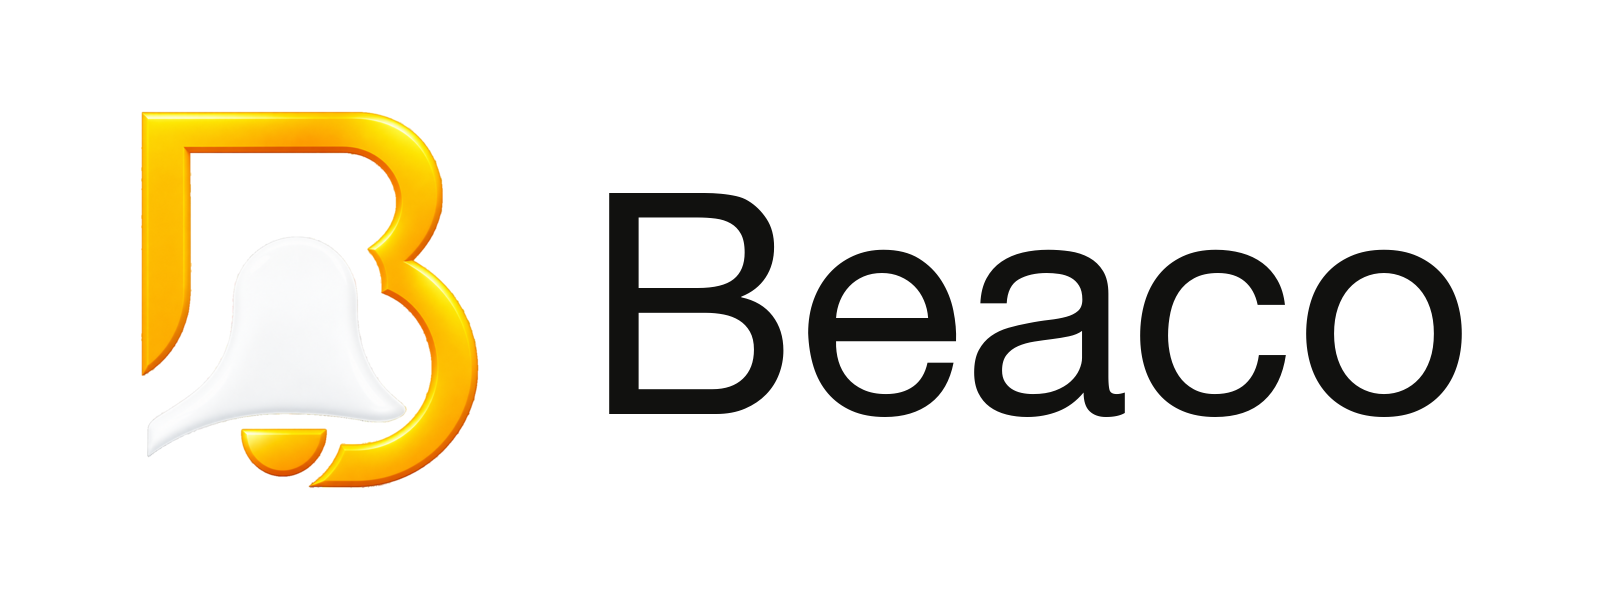
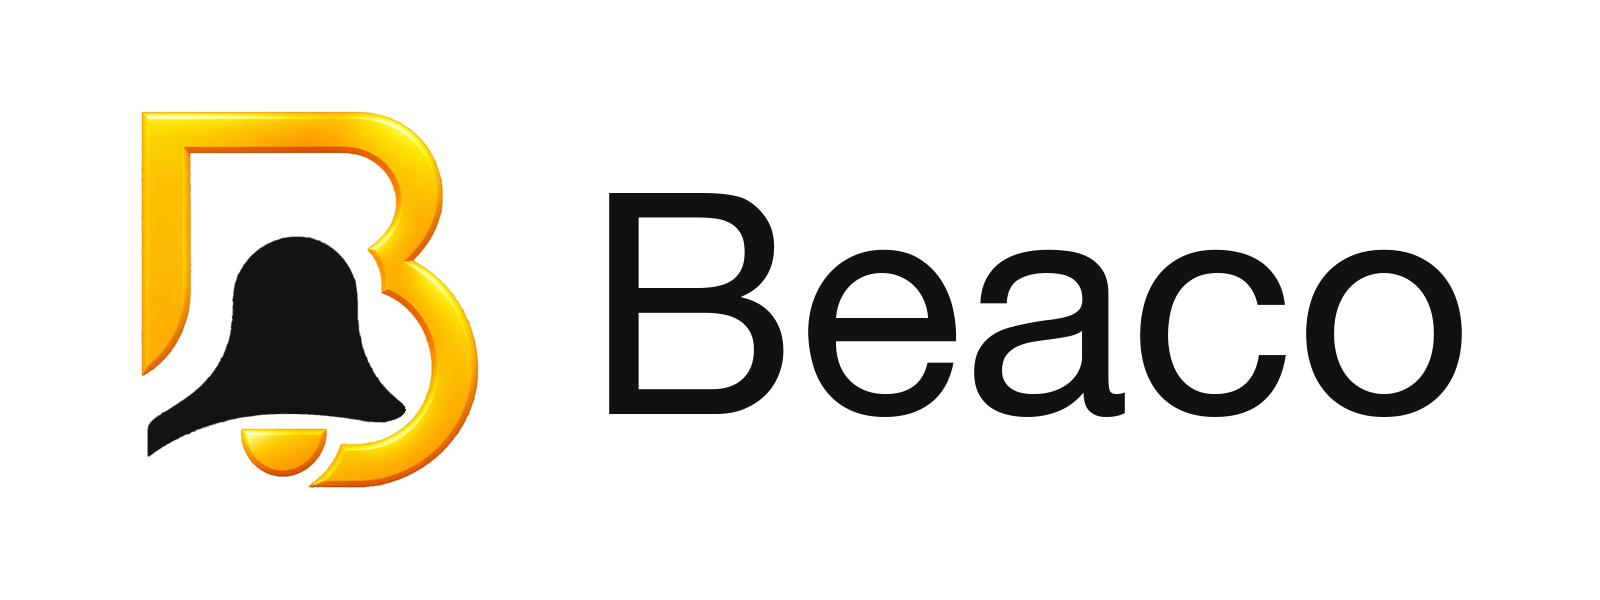
feat(email): add branded template gallery and light assets
- Add responsive light and dark email template review surfaces
- Produce transparent black-bell logo variants for light backgrounds
- Document correct light, dark, favicon, and installable icon usage

Changed region(s): [[0.0938, 0.39, 0.25, 0.75]]

diff --git a/apps/web/src/components/email/beaco-email-preview.tsx b/apps/web/src/components/email/beaco-email-preview.tsx
@@ -1,0 +1,112 @@
+import Image from "next/image";
+import type { EmailTemplate } from "@/lib/email-templates";
+
+export type EmailColorScheme = "light" | "dark";
+
+type BeacoEmailPreviewProps = {
+  template: EmailTemplate;
+  colorScheme: EmailColorScheme;
+};
+
+export function BeacoEmailPreview({ template, colorScheme }: BeacoEmailPreviewProps) {
+  const isInvite = template.id === "organization-invitation";
+  const isWelcome = template.id === "account-ready";
+  const headline = isInvite
+    ? `A seat is waiting at ${template.sample.organization}`
+    : isWelcome
+      ? "Your notification workspace is live"
+      : "Your private route into Beaco";
+  const intro = isInvite
+    ? `${template.sample.inviter} invited you to join ${template.sample.organization} and work from one shared notification record.`
+    : isWelcome
+      ? `Hi ${template.sample.recipientName}, your organization and first project are ready. The control plane is yours.`
+      : `Hi ${template.sample.recipientName}, use this one-time link to securely sign in. No password, no credentials left behind.`;
+  const eyebrow = isInvite ? "Organization invitation" : isWelcome ? "Workspace provisioned" : "Secure account access";
+  const detailLabel = isInvite ? "Organization" : isWelcome ? "First project" : "Valid for";
+  const detailValue = isInvite ? template.sample.organization : isWelcome ? "Default" : template.sample.expiry;
+
+  return (
+    <article
+      data-color-scheme={colorScheme}
+      className="group/email mx-auto w-full max-w-[640px] overflow-hidden rounded-[2px] border border-[#d9d4c8] bg-[#f7f4eb] text-[#211f1a] shadow-[0_30px_90px_rgba(0,0,0,0.28)] transition-colors data-[color-scheme=dark]:border-[#34332e] data-[color-scheme=dark]:bg-[#11110f] data-[color-scheme=dark]:text-[#f2eee4]"
+      aria-label={`${template.name} email preview in ${colorScheme} mode`}
+    >
+      <header className="border-b-2 border-[#e9aa31] bg-[#11110f] px-6 py-6 sm:px-10 sm:py-7">
+        <div className="flex items-center justify-between gap-6">
+          <Image
+            src="/brand/png/beaco-lockup-horizontal-dark.png"
+            width={220}
+            height={72}
+            alt="Beaco"
+            className="h-auto w-[118px] sm:w-[132px]"
+            priority
+          />
+          <span className="text-right font-mono text-[9px] uppercase tracking-[0.16em] text-white/48">Identity message / {template.id.replaceAll("-", " ")}</span>
+        </div>
+      </header>
+
+      <div className="px-6 py-9 sm:px-10 sm:py-12">
+        <div className="flex items-center gap-3">
+          <span className="size-2 bg-[#e9aa31] shadow-[0_0_16px_rgba(233,170,49,.55)]" />
+          <p className="font-mono text-[9px] uppercase tracking-[0.18em] text-[#8a8274] group-data-[color-scheme=dark]/email:text-[#9c968b]">{eyebrow}</p>
+        </div>
+
+        <h1 className="mt-7 max-w-[15ch] text-[34px] font-semibold leading-[1.02] tracking-[-0.052em] sm:text-[44px]">{headline}</h1>
+        <p className="mt-6 max-w-[32rem] text-[14px] leading-7 text-[#5f5a50] group-data-[color-scheme=dark]/email:text-[#b4aea2]">{intro}</p>
+
+        <dl className="mt-9 grid grid-cols-1 border-y border-[#ded9cc] sm:grid-cols-2 group-data-[color-scheme=dark]/email:border-[#37362f]">
+          <div className="py-5 sm:pr-6">
+            <dt className="font-mono text-[9px] uppercase tracking-[0.16em] text-[#8a8274] group-data-[color-scheme=dark]/email:text-[#827d73]">{detailLabel}</dt>
+            <dd className="mt-2 text-[14px] font-semibold">{detailValue}</dd>
+          </div>
+          <div className="border-t border-[#ded9cc] py-5 sm:border-l sm:border-t-0 sm:pl-6 group-data-[color-scheme=dark]/email:border-[#37362f]">
+            <dt className="font-mono text-[9px] uppercase tracking-[0.16em] text-[#8a8274] group-data-[color-scheme=dark]/email:text-[#827d73]">Security</dt>
+            <dd className="mt-2 text-[14px] font-semibold">{isWelcome ? "Account verified" : "Single-use access"}</dd>
+          </div>
+        </dl>
+
+        <a
+          href={template.action.destination}
+          className="mt-9 inline-flex min-h-12 items-center justify-center bg-[#e9aa31] px-6 text-[12px] font-bold tracking-[-0.01em] text-[#1d160b] no-underline"
+        >
+          {template.action.label}<span className="ml-4 font-mono" aria-hidden="true">→</span>
+        </a>
+
+        <p className="mt-7 text-[11px] leading-5 text-[#7c7569] group-data-[color-scheme=dark]/email:text-[#8f897e]">
+          {isInvite
+            ? `This invitation expires in ${template.sample.expiry}.`
+            : isWelcome
+              ? "This confirms that account provisioning completed successfully."
+              : `This link expires in ${template.sample.expiry} and can only be used once.`}
+          {isWelcome ? "" : " If you did not request this, no action is required."}
+        </p>
+
+        {!isWelcome ? (
+          <div className="mt-7 border-l-2 border-[#e9aa31] bg-[#eeeadf] px-4 py-3 group-data-[color-scheme=dark]/email:bg-[#191916]">
+            <p className="font-mono text-[9px] uppercase tracking-[0.13em] text-[#777064] group-data-[color-scheme=dark]/email:text-[#8e887d]">Button not working?</p>
+            <p className="mt-2 break-all font-mono text-[9px] leading-4 text-[#514d45] group-data-[color-scheme=dark]/email:text-[#aba59a]">https://beaco.app{template.action.destination}</p>
+          </div>
+        ) : null}
+      </div>
+
+      <footer className="border-t border-[#ddd7ca] bg-[#ebe7dc] px-6 py-7 group-data-[color-scheme=dark]/email:border-[#34332e] group-data-[color-scheme=dark]/email:bg-[#0b0b0a] sm:px-10">
+        <div className="flex items-start gap-4">
+          <Image
+            src={colorScheme === "light" ? "/brand/png/beaco-mark-on-light.png" : "/brand/png/beaco-mark-128.png"}
+            width={38}
+            height={38}
+            alt=""
+            className="size-9 shrink-0"
+          />
+          <div className="min-w-0 flex-1">
+            <strong className="text-[13px] tracking-[-0.02em]">Beaco</strong>
+            <p className="mt-1 text-[10px] leading-4 text-[#777064] group-data-[color-scheme=dark]/email:text-[#8d877d]">Notification infrastructure with an accountable delivery record.</p>
+          </div>
+        </div>
+        <div className="mt-6 flex flex-wrap items-center gap-x-3 gap-y-1 border-t border-[#d7d1c4] pt-5 font-mono text-[9px] text-[#777064] group-data-[color-scheme=dark]/email:border-[#302f2a] group-data-[color-scheme=dark]/email:text-[#807b72]">
+          <span>Docs</span><span aria-hidden="true">·</span><span>Security</span><span aria-hidden="true">·</span><span>Privacy</span><span className="ml-auto">Sent to {template.sample.email}</span>
+        </div>
+      </footer>
+    </article>
+  );
+}

diff --git a/apps/web/src/components/email/email-template-gallery.tsx b/apps/web/src/components/email/email-template-gallery.tsx
@@ -1,0 +1,55 @@
+"use client";
+
+import { useMemo, useState } from "react";
+import Link from "next/link";
+import { ArrowLeft, Desktop, DeviceMobile, MagnifyingGlass, Moon, Sun } from "@phosphor-icons/react";
+import { emailTemplates } from "@/lib/email-templates";
+import { BeacoEmailPreview, type EmailColorScheme } from "./beaco-email-preview";
+import BrandLogo from "@/components/brand/brand-logo";
+
+export function EmailTemplateGallery() {
+  const [selectedId, setSelectedId] = useState(emailTemplates[0].id);
+  const [query, setQuery] = useState("");
+  const [viewport, setViewport] = useState<"desktop" | "mobile">("desktop");
+  const [colorScheme, setColorScheme] = useState<EmailColorScheme>("dark");
+  const filtered = useMemo(() => emailTemplates.filter((item) => `${item.name} ${item.subject} ${item.category}`.toLowerCase().includes(query.toLowerCase())), [query]);
+  const selected = emailTemplates.find((item) => item.id === selectedId) ?? emailTemplates[0];
+
+  return (
+    <main id="main-content" className="min-h-dvh bg-[#0b0b0a] text-[#eeeae0]">
+      <header className="flex min-h-16 items-center justify-between border-b border-white/10 px-4 sm:px-6">
+        <div className="flex items-center gap-4"><Link href="/" aria-label="Back to Beaco"><ArrowLeft size={18} /></Link><BrandLogo markClassName="size-7" /><span className="hidden border-l border-white/10 pl-4 text-[12px] text-white/50 sm:inline">Email templates</span></div>
+        <span className="font-mono text-[11px] text-white/45">{emailTemplates.length} REVIEW ITEMS</span>
+      </header>
+      <div className="grid min-h-[calc(100dvh-4rem)] min-w-0 grid-cols-1 lg:grid-cols-[18rem_minmax(0,1fr)_19rem]">
+        <aside className="min-w-0 border-b border-white/10 p-4 lg:border-b-0 lg:border-r lg:p-5">
+          <label className="relative block"><MagnifyingGlass size={15} className="absolute left-3 top-1/2 -translate-y-1/2 text-white/35" /><span className="sr-only">Search templates</span><input value={query} onChange={(event) => setQuery(event.target.value)} placeholder="Search templates" className="h-11 w-full rounded-lg border border-white/10 bg-white/[0.035] pl-9 pr-3 text-[13px] outline-none focus:border-[#e9aa31]" /></label>
+          <div className="mt-5 flex gap-2 overflow-x-auto lg:block lg:space-y-1">
+            {filtered.map((template, index) => <button key={template.id} onClick={() => setSelectedId(template.id)} className={`min-w-[13rem] rounded-lg px-3 py-3 text-left transition lg:w-full ${selected.id === template.id ? "bg-white/[0.08] text-white" : "text-white/55 hover:bg-white/[0.04] hover:text-white/80"}`}><span className="font-mono text-[10px] text-[#e9aa31]">0{index + 1}</span><span className="ml-3 text-[12px] font-medium">{template.name}</span><span className="mt-1.5 block pl-7 text-[10px] text-white/35">{template.category}</span></button>)}
+          </div>
+        </aside>
+
+        <section className="min-w-0">
+          <div className="flex flex-wrap items-center justify-between gap-4 border-b border-white/10 px-4 py-4 sm:px-6">
+            <div><p className="text-[12px] font-medium">{selected.name}</p><p className="mt-1 text-[11px] text-white/40">Subject: {selected.subject}</p></div>
+            <div className="flex flex-wrap gap-2">
+              <div className="flex rounded-lg border border-white/10 p-1"><button aria-label="Light email preview" onClick={() => setColorScheme("light")} className={`grid size-9 place-items-center rounded-md ${colorScheme === "light" ? "bg-white/10 text-[#e9aa31]" : "text-white/40"}`}><Sun size={17} /></button><button aria-label="Dark email preview" onClick={() => setColorScheme("dark")} className={`grid size-9 place-items-center rounded-md ${colorScheme === "dark" ? "bg-white/10 text-[#e9aa31]" : "text-white/40"}`}><Moon size={17} /></button></div>
+              <div className="flex rounded-lg border border-white/10 p-1"><button aria-label="Desktop preview" onClick={() => setViewport("desktop")} className={`grid size-9 place-items-center rounded-md ${viewport === "desktop" ? "bg-white/10 text-[#e9aa31]" : "text-white/40"}`}><Desktop size={17} /></button><button aria-label="Mobile preview" onClick={() => setViewport("mobile")} className={`grid size-9 place-items-center rounded-md ${viewport === "mobile" ? "bg-white/10 text-[#e9aa31]" : "text-white/40"}`}><DeviceMobile size={17} /></button></div>
+            </div>
+          </div>
+          <div className="min-h-[calc(100dvh-8.5rem)] overflow-auto bg-[#161614] p-4 sm:p-8">
+            <div className={`mx-auto transition-all ${viewport === "mobile" ? "max-w-[390px]" : "max-w-[760px]"}`}><BeacoEmailPreview template={selected} colorScheme={colorScheme} /></div>
+          </div>
+        </section>
+
+        <aside className="min-w-0 border-t border-white/10 p-5 lg:border-l lg:border-t-0">
+          <p className="font-mono text-[10px] tracking-[0.1em] text-white/35">DELIVERY CONTEXT</p>
+          <dl className="mt-5 space-y-5 text-[12px]"><div><dt className="text-white/35">Audience</dt><dd className="mt-1.5 text-white/75">{selected.audience}</dd></div><div><dt className="text-white/35">Trigger</dt><dd className="mt-1.5 break-words font-mono text-[10px] leading-5 text-white/65">{selected.trigger}</dd></div><div><dt className="text-white/35">Integration</dt><dd className="mt-1.5 text-white/75">{selected.status === "proposed" ? "Proposed · not sent today" : "Integrated with the live sender"}</dd></div><div><dt className="text-white/35">Color handling</dt><dd className="mt-1.5 text-white/75">Light + dark aware · inversion-safe fallback</dd></div><div><dt className="text-white/35">Action destination</dt><dd className="mt-1.5 break-words font-mono text-[10px] leading-5 text-white/65">{selected.action.destination}</dd></div></dl>
+          <p className="mt-8 font-mono text-[10px] tracking-[0.1em] text-white/35">VARIABLES</p>
+          <div className="mt-4 flex flex-wrap gap-2">{selected.variables.map((variable) => <code key={variable} className="rounded bg-white/[0.06] px-2 py-1.5 text-[10px] text-[#e9aa31]">{`{{ ${variable} }}`}</code>)}</div>
+          <p className="mt-8 border-l border-[#e9aa31] pl-4 text-[11px] leading-5 text-white/45">Magic-link and invitation designs are integrated. Account ready remains a proposed review item.</p>
+        </aside>
+      </div>
+    </main>
+  );
+}

diff --git a/apps/web/src/lib/email-templates.ts b/apps/web/src/lib/email-templates.ts
@@ -1,0 +1,63 @@
+export type EmailTemplateStatus = "integrated" | "proposed";
+
+export type EmailTemplate = {
+  id: string;
+  category: "Account access" | "Organizations";
+  name: string;
+  audience: string;
+  subject: string;
+  trigger: string;
+  variables: string[];
+  action: { label: string; destination: string };
+  status: EmailTemplateStatus;
+  sample: { recipientName: string; email: string; organization?: string; inviter?: string; expiry: string };
+};
+
+export const emailTemplates: EmailTemplate[] = [
+  {
+    id: "magic-link-sign-in",
+    category: "Account access",
+    name: "Private sign-in link",
+    audience: "New or returning user",
+    subject: "Your private link to Beaco",
+    trigger: "POST /auth/magic-link/request",
+    variables: ["recipient_name", "magic_link_url", "expires_in_minutes"],
+    action: { label: "Sign in to Beaco", destination: "/auth/magic-link?token={{ token }}" },
+    status: "integrated",
+    sample: { recipientName: "Maya", email: "maya@northstar.dev", expiry: "15 minutes" },
+  },
+  {
+    id: "account-ready",
+    category: "Account access",
+    name: "Account ready",
+    audience: "Newly created user",
+    subject: "Your Beaco workspace is ready",
+    trigger: "First successful magic-link or GitHub registration",
+    variables: ["recipient_name", "organization_name", "project_name", "dashboard_url"],
+    action: { label: "Open your workspace", destination: "/auth/complete" },
+    status: "proposed",
+    sample: { recipientName: "Maya", email: "maya@northstar.dev", organization: "Northstar", expiry: "—" },
+  },
+  {
+    id: "organization-invitation",
+    category: "Organizations",
+    name: "Organization invitation",
+    audience: "Invited organization member",
+    subject: "Join Northstar on Beaco",
+    trigger: "POST /organizations/{organization_id}/invitations",
+    variables: ["recipient_email", "inviter_name", "organization_name", "role", "invitation_url", "expires_in_days"],
+    action: { label: "Review invitation", destination: "/invitations/accept?token={{ token }}" },
+    status: "integrated",
+    sample: { recipientName: "Maya", email: "maya@northstar.dev", organization: "Northstar", inviter: "Jon Bell", expiry: "7 days" },
+  },
+];
+
+export function assertEmailCatalogue(): void {
+  const ids = new Set(emailTemplates.map((template) => template.id));
+  if (ids.size !== emailTemplates.length) throw new Error("Email template IDs must be unique.");
+  for (const template of emailTemplates) {
+    if (!template.variables.length || !template.action.destination.startsWith("/")) {
+      throw new Error(`Email template ${template.id} has incomplete review metadata.`);
+    }
+  }
+}

diff --git a/apps/web/src/app/emailtemplate/page.tsx b/apps/web/src/app/emailtemplate/page.tsx
@@ -1,0 +1,13 @@
+import type { Metadata } from "next";
+import { EmailTemplateGallery } from "@/components/email/email-template-gallery";
+import { assertEmailCatalogue } from "@/lib/email-templates";
+
+export const metadata: Metadata = {
+  title: "Email template review | Beaco",
+  robots: { index: false, follow: false },
+};
+
+export default function EmailTemplatePage() {
+  assertEmailCatalogue();
+  return <EmailTemplateGallery />;
+}

diff --git a/apps/web/public/brand/README.md b/apps/web/public/brand/README.md
@@ -3,9 +3,12 @@
 ## Image-generated master
 
 - `png/beaco-mark-master.png`: transparent 1400px image-generated master mark
-- `png/beaco-lockup-horizontal-*.png`: transparent wide logo lockups
-- `png/beaco-lockup-stacked-*.png`: transparent stacked logo lockups
+- `png/beaco-lockup-horizontal-dark.png`: white-wordmark lockup for dark surfaces
+- `png/beaco-lockup-horizontal-light.png`: black-wordmark, black-bell lockup for light surfaces
+- `png/beaco-lockup-stacked-dark.png`: white-wordmark lockup for dark surfaces
+- `png/beaco-lockup-stacked-light.png`: black-wordmark, black-bell lockup for light surfaces
 - `png/beaco-wordmark-*.png`: standalone wordmarks
+- `png/beaco-mark-on-light.png`: transparent approved mark with a black bell for light surfaces
 
 ## Raster exports
 
@@ -18,7 +21,9 @@ The `png/` directory contains transparent mark exports from 16px through 1024px,
 - Use the stacked lockup only in centered or square compositions.
 - Keep clear space around the mark equal to at least one quarter of its width.
 - Do not add glow, shadow, or a containing shape below 48px.
-- Use the full amber-gold mark on dark UI. On light UI, place it on a dark brand tile when the white bell needs stronger contrast.
+- Use the original white-bell mark and `*-dark` lockups on dark UI.
+- Use `beaco-mark-on-light.png` and the `*-light` lockups on light UI. These preserve the amber B and switch only the bell and wordmark contrast elements to black.
+- App icons, favicons, and the maskable icon keep their original white bell because their exported dark background supplies the required contrast.
 - Use the maskable icon for installable app manifests. It includes the required safe-area padding.
 
 Brand colors:
